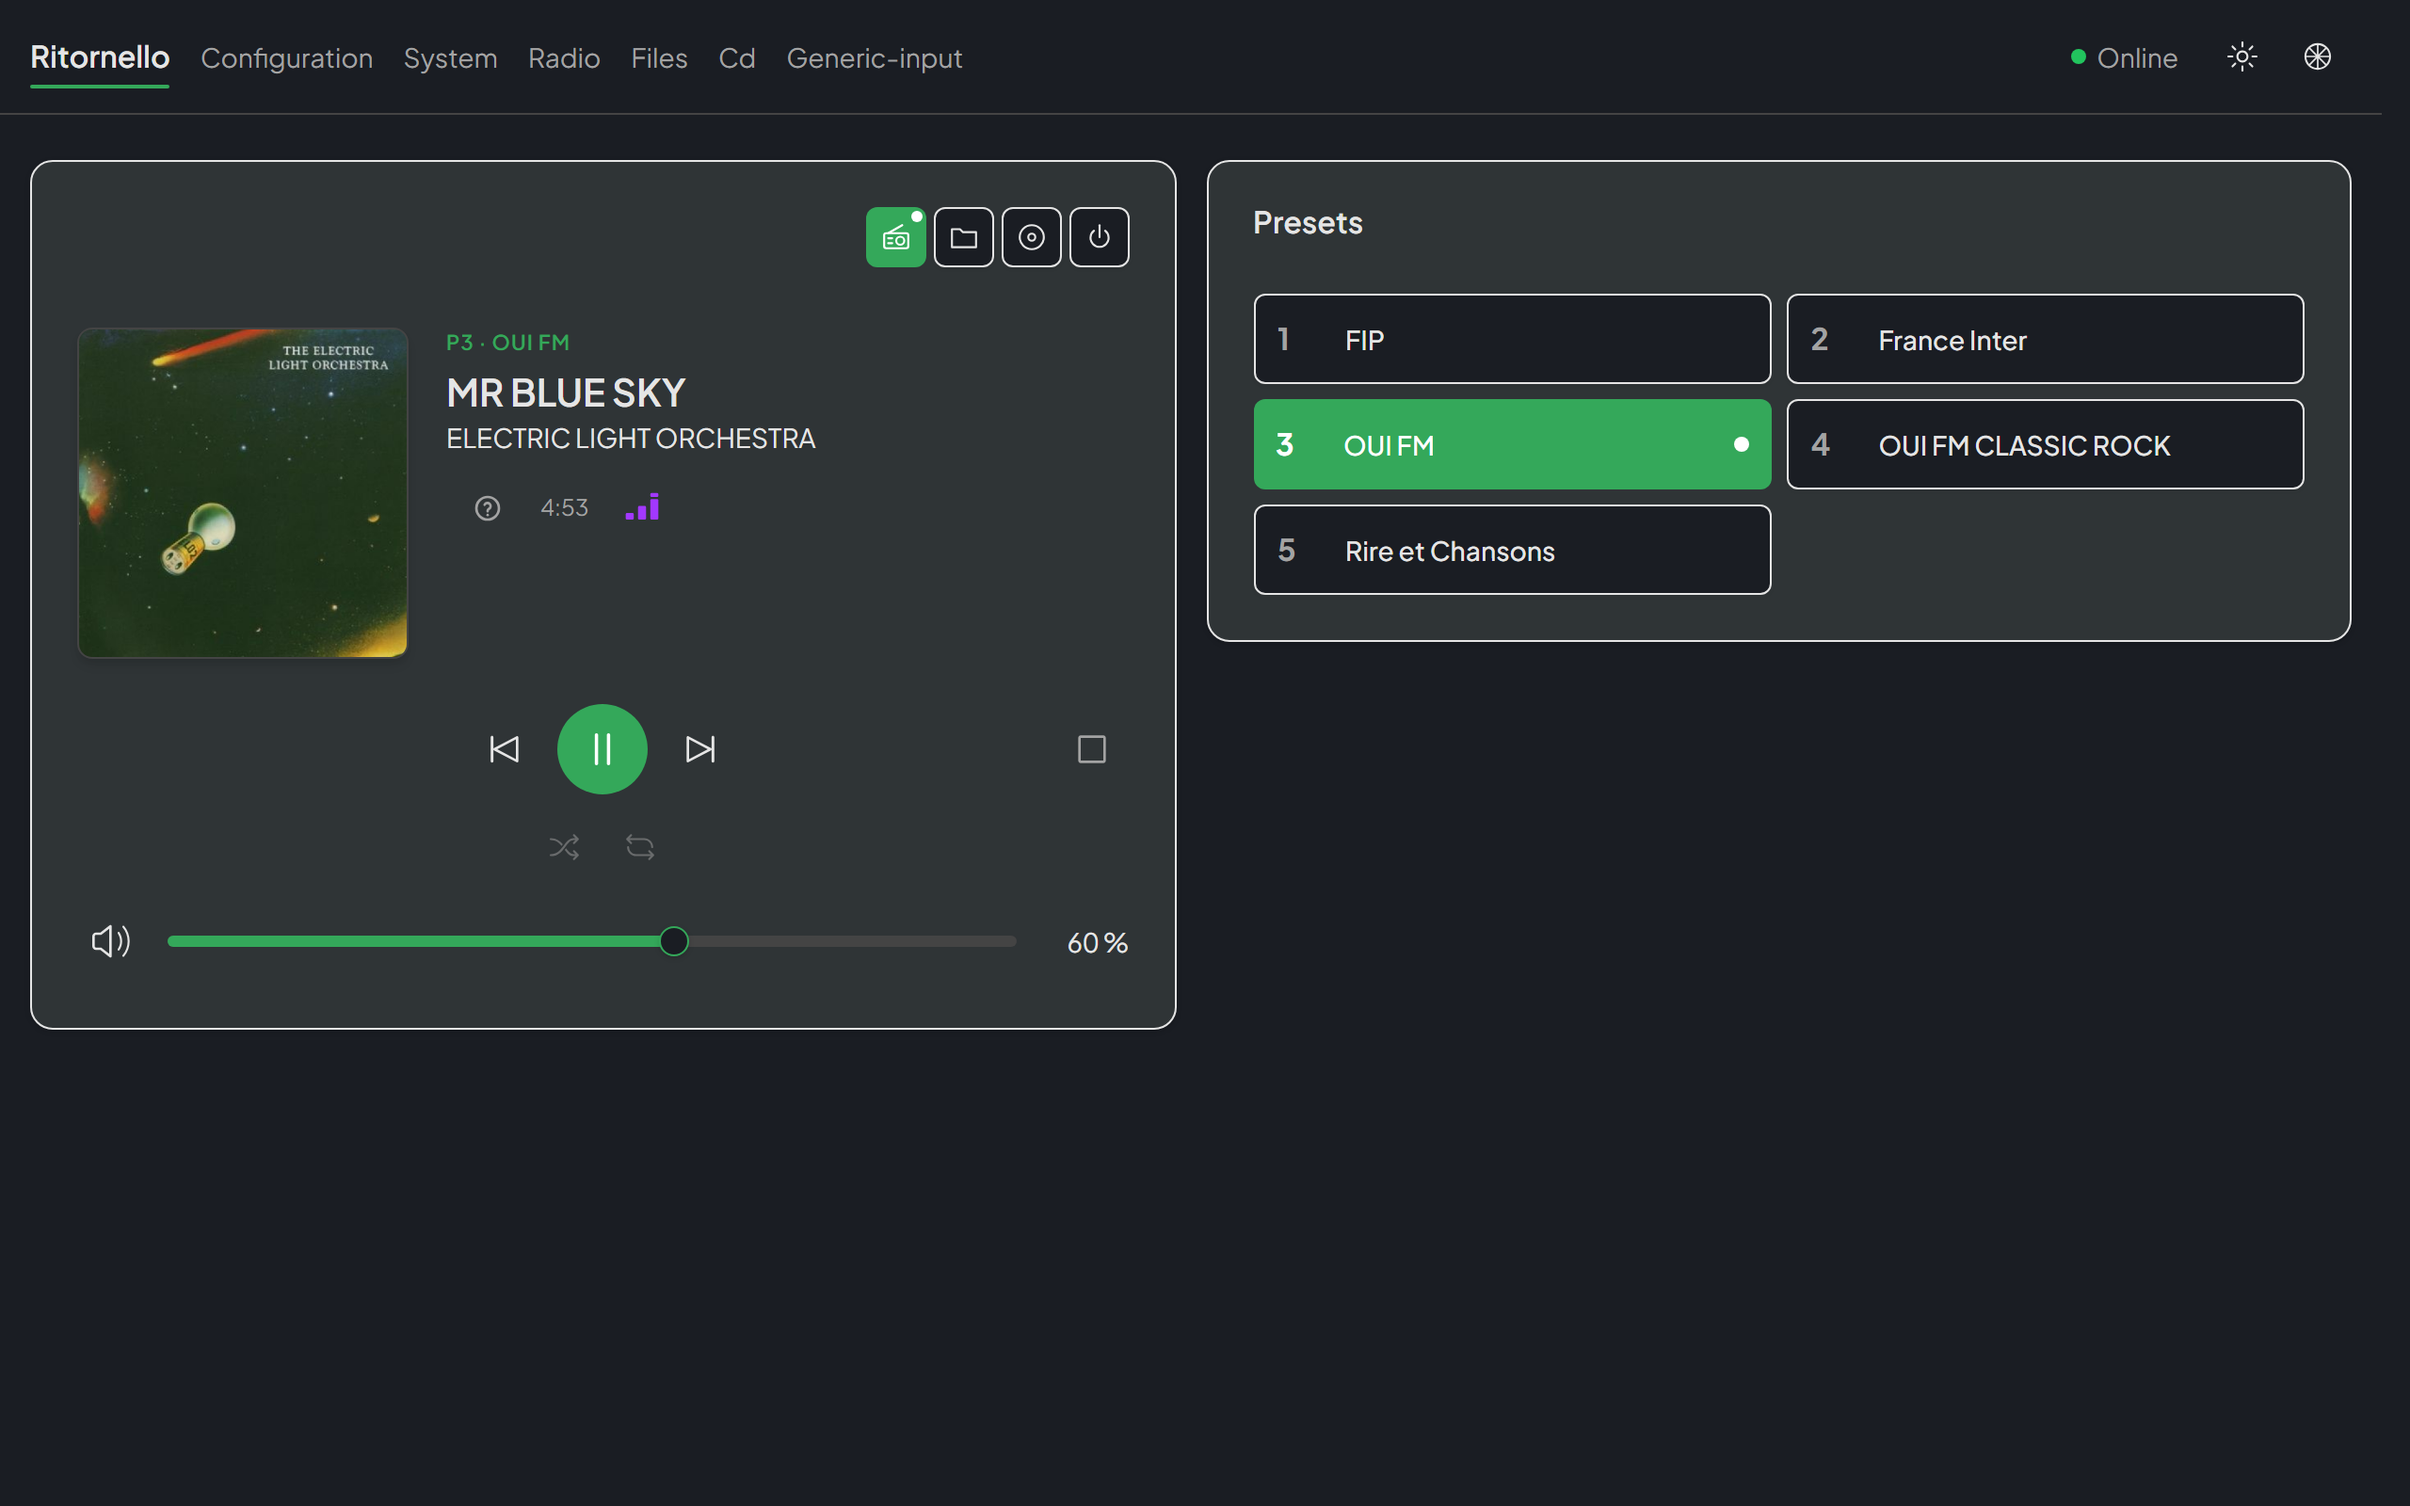
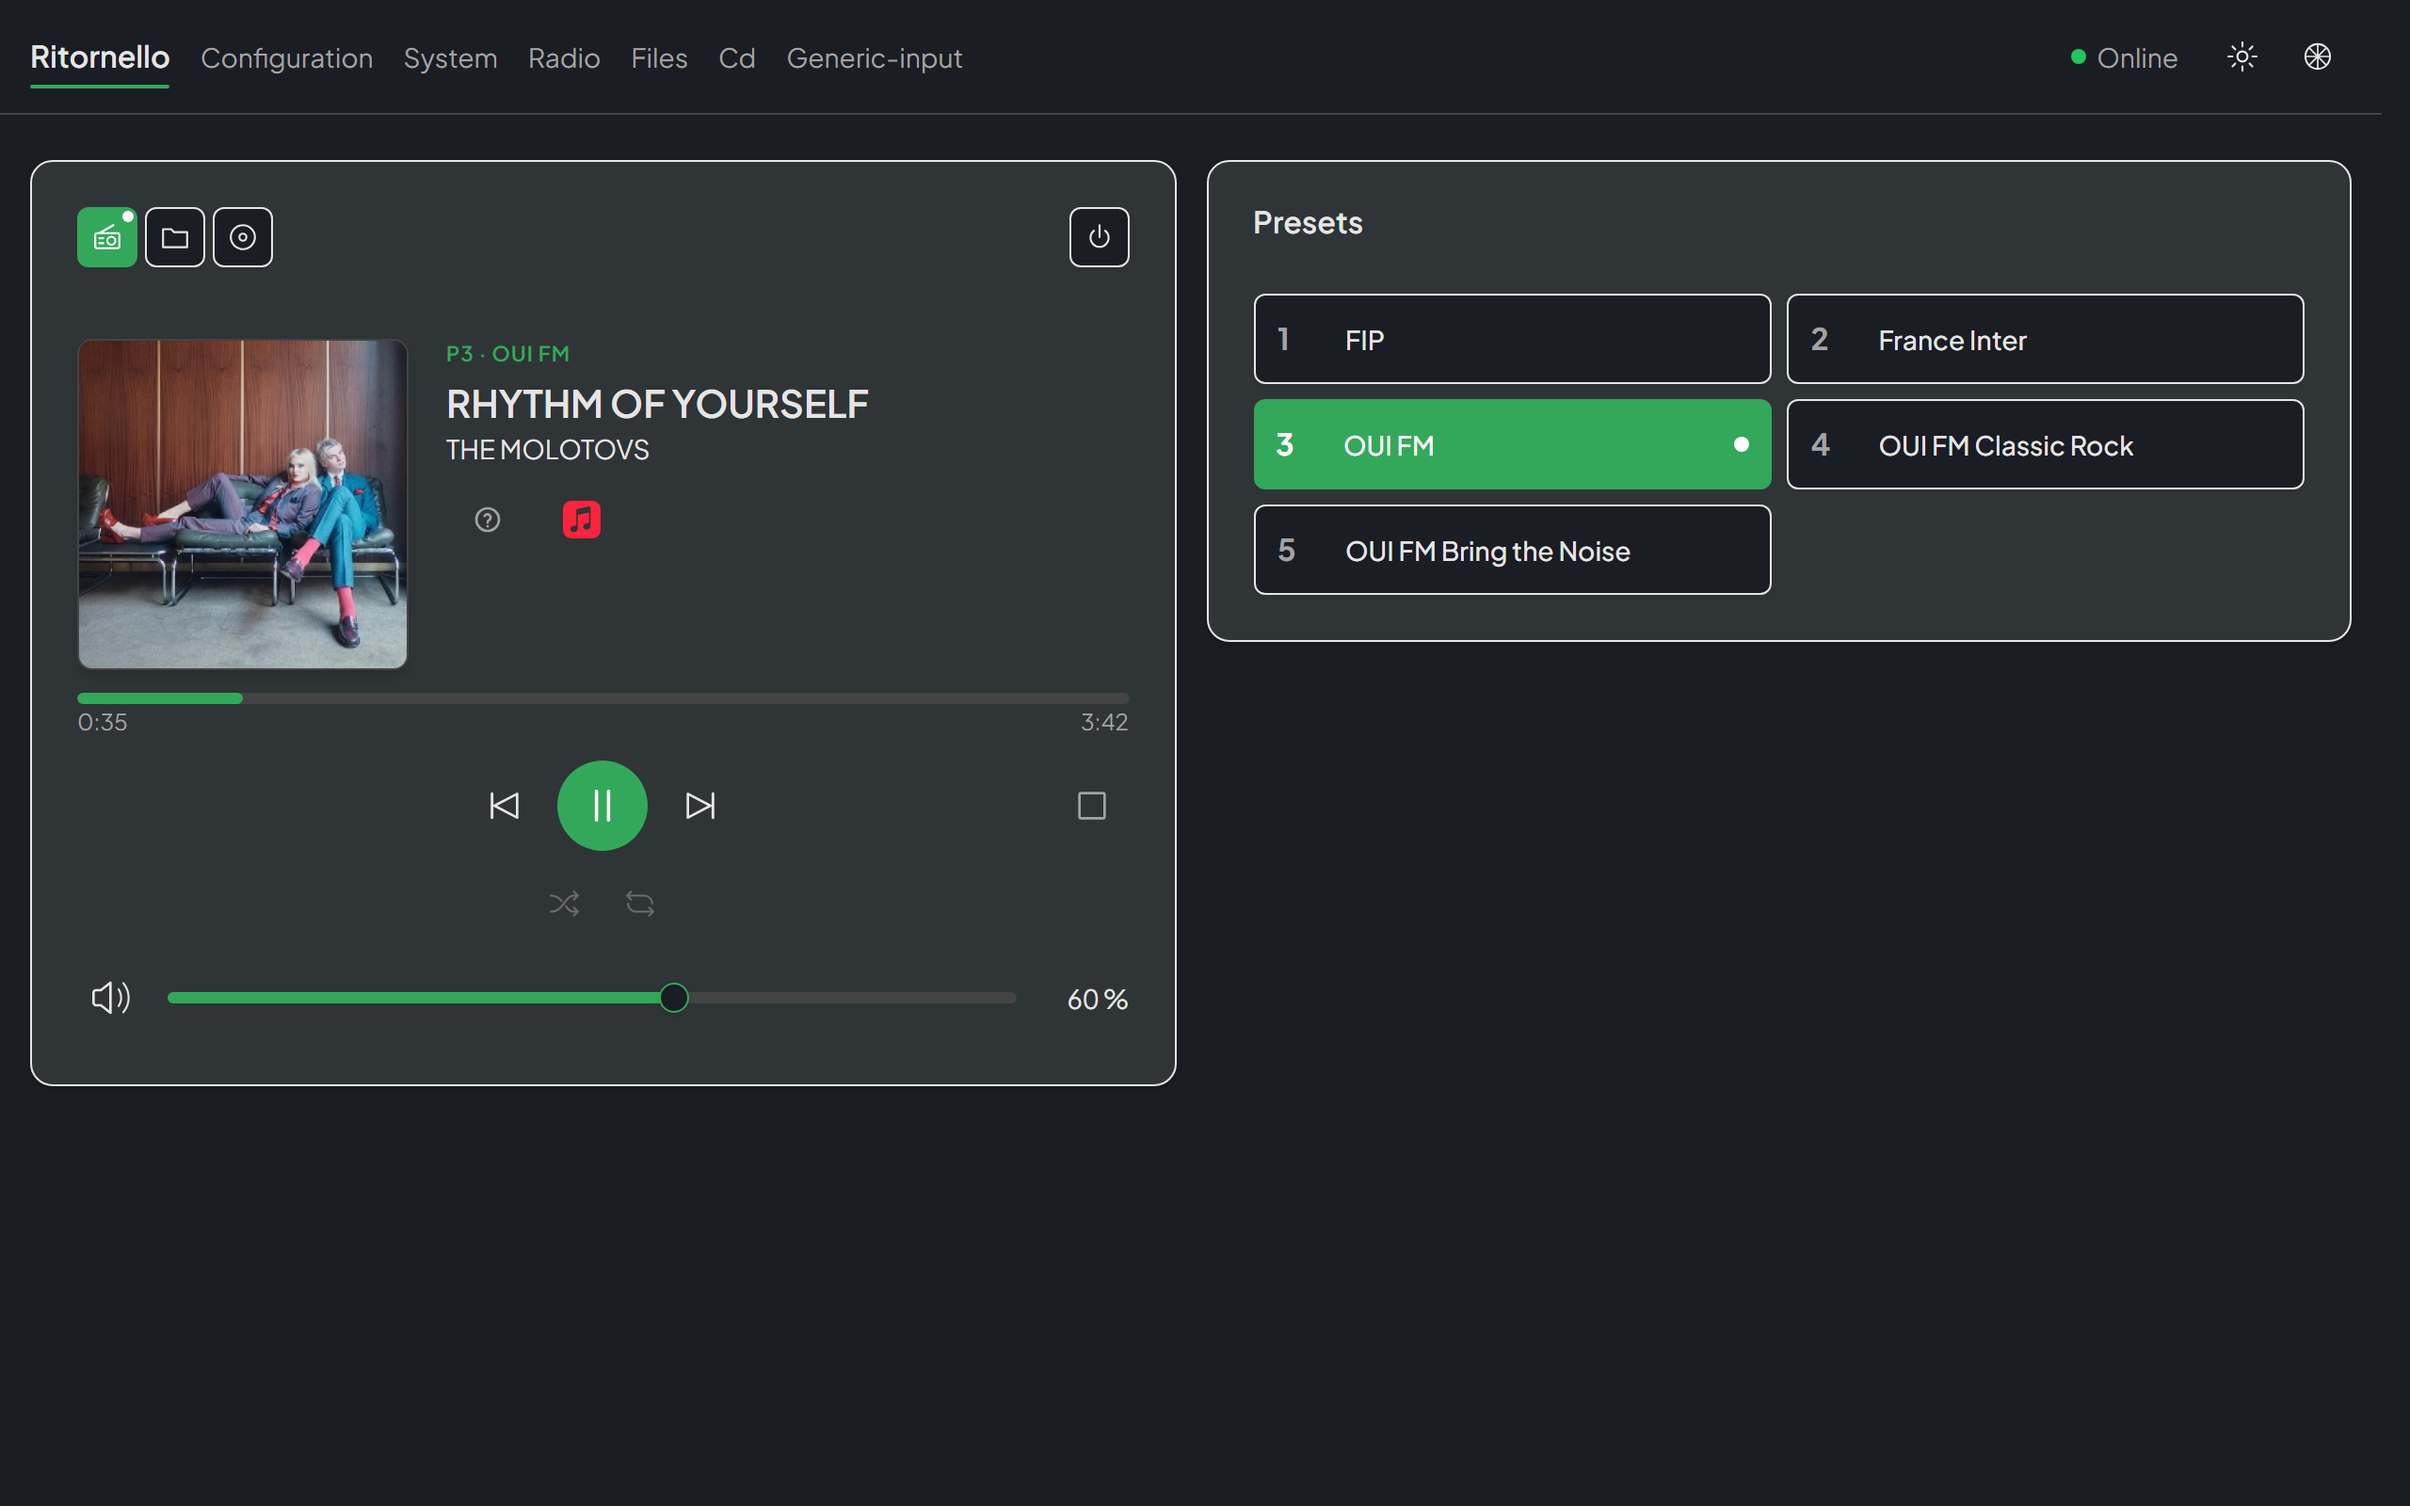
Source keys at the left of the player card header; system page tests on plain fake timers (#95)
* test(web): the system page tests advance time only when told to

The last file still running fake timers with shouldAdvanceTime, the setting
behind the flaky ConfigView failure fixed in #94. With time moving only when
the test says, the period-change test now checks the real 5:1 spacing
instead of "more than 3".

* feat(web): the source keys open the player card header, standby alone in its corner

Side by side in the corner, the last source key sat right against standby,
one slip from putting the device to sleep. The keys now start the header at
its left edge, followed by the standby badge; the corner keeps standby, and
the cycle key beside it when the icon keys do not fit. The widths headerMode
counts are unchanged. Home screenshots retaken.

diff --git a/web/app/src/components/PlayerCard.vue b/web/app/src/components/PlayerCard.vue
@@ -234,36 +234,45 @@ const emit = defineEmits<{ seek: [seconds: number] }>()
   <!-- No visible title: the header is the room the source keys need, and the
        card says what it is to assistive technology through its name. -->
   <Card data-player role="region" :aria-label="t('player_title')">
-    <!-- `gap-x-0` and the title's `mr-1`: the gap before the corner's keys
-         only exists when the title does. The kit's grid would keep its
-         column gap beside an empty title, a width `headerMode` does not
-         count (see its `GAP`). -->
-    <CardHeader ref="header" class="gap-x-0 pb-2" data-player-header>
-      <CardTitle v-if="showSource || state?.standby" class="mr-1 flex items-center gap-2 text-base">
-        <!-- The source as a pill: a kit badge, `data-source` kept for the
-             journeys. The dot says "it's playing" (playback), where the old
-             text line said nothing.
+    <!-- `gap-x-0` and the start column's `mr-1`: the gap before the corner's
+         keys only exists when that column does. The kit's grid would keep
+         its column gap beside an empty title, a width `headerMode` does not
+         count (see its `GAP`).
 
-             `bg-current` and not `bg-primary`: the dot inherits the badge's
-             text color, so it contrasts **by construction** with its own
-             background, in every theme. With `bg-primary` it painted the
-             theme's green over the secondary badge's blue — two saturated,
-             close hues, reported unreadable by the owner. It is also the
-             idiom already chosen for the active preset pill (see
-             `PresetGrid.vue`). The color carries no meaning here anyway: it
-             is the **presence** of the dot that says it is playing, it is
-             only rendered at that moment. -->
-        <Badge v-if="showSource" variant="secondary" class="gap-1.5 font-normal">
-          <span
-            v-if="state?.playback === 'playing'"
-            class="size-1.5 rounded-full bg-current"
-            aria-hidden="true"
-            data-now-playing-line
-          />
-          <span data-source>{{ state ? state.source || t('no_source') : '' }}</span>
-        </Badge>
-        <Badge v-if="state?.standby" variant="secondary" data-standby>{{ t('standby') }}</Badge>
-      </CardTitle>
+         The `sources` slot opens the start column, so the source keys sit
+         at the left edge, away from standby in the far corner: side by side
+         in the corner, a key for a source and the key putting the device to
+         sleep were one slip apart, reported by the owner. `gap-1` between
+         them and the standby badge is the `GAP` `headerMode` counts. -->
+    <CardHeader ref="header" class="gap-x-0 pb-2" data-player-header>
+      <div v-if="showSource || state?.standby || $slots.sources" class="mr-1 flex items-center gap-1" data-player-header-start>
+        <slot name="sources" />
+        <CardTitle v-if="showSource || state?.standby" class="flex items-center gap-2 text-base">
+          <!-- The source as a pill: a kit badge, `data-source` kept for the
+               journeys. The dot says "it's playing" (playback), where the old
+               text line said nothing.
+
+               `bg-current` and not `bg-primary`: the dot inherits the badge's
+               text color, so it contrasts **by construction** with its own
+               background, in every theme. With `bg-primary` it painted the
+               theme's green over the secondary badge's blue — two saturated,
+               close hues, reported unreadable by the owner. It is also the
+               idiom already chosen for the active preset pill (see
+               `PresetGrid.vue`). The color carries no meaning here anyway: it
+               is the **presence** of the dot that says it is playing, it is
+               only rendered at that moment. -->
+          <Badge v-if="showSource" variant="secondary" class="gap-1.5 font-normal">
+            <span
+              v-if="state?.playback === 'playing'"
+              class="size-1.5 rounded-full bg-current"
+              aria-hidden="true"
+              data-now-playing-line
+            />
+            <span data-source>{{ state ? state.source || t('no_source') : '' }}</span>
+          </Badge>
+          <Badge v-if="state?.standby" variant="secondary" data-standby>{{ t('standby') }}</Badge>
+        </CardTitle>
+      </div>
       <CardAction v-if="$slots.actions">
         <slot name="actions" />
       </CardAction>

diff --git a/web/app/src/views/HomeView.vue b/web/app/src/views/HomeView.vue
@@ -103,23 +103,24 @@ onMounted(async () => {
       :seek-step="settings.seek_step_s"
       @seek="(s: number) => send({ cmd: 'SeekTo', arg: s })"
     >
-      <!-- The two commands bearing on the whole device, in the corner of the
-           card: the source, then standby in the far corner. The source is
-           one key per source when they fit, the cycle key otherwise, nothing
-           when there is only one. -->
+      <!-- The two commands bearing on the whole device: the source, and
+           standby in the far corner. The source is one key per source when
+           they fit, at the header's left edge, clear of standby; the cycle
+           key otherwise, beside standby; nothing when there is only one. -->
+      <template v-if="mode === 'icons'" #sources>
+        <SourceKeys
+          :sources="sources"
+          :icons="icons"
+          :active="state?.source ?? null"
+          :playing="state?.playback === 'playing'"
+          :disabled="unavailable('SelectSource', state)"
+          @choose="(name: string) => send({ cmd: 'SelectSource', arg: name })"
+        />
+      </template>
       <template #actions>
         <div class="flex items-center gap-1">
-          <SourceKeys
-            v-if="mode === 'icons'"
-            :sources="sources"
-            :icons="icons"
-            :active="state?.source ?? null"
-            :playing="state?.playback === 'playing'"
-            :disabled="unavailable('SelectSource', state)"
-            @choose="(name: string) => send({ cmd: 'SelectSource', arg: name })"
-          />
           <Button
-            v-else-if="mode === 'cycle'"
+            v-if="mode === 'cycle'"
             variant="outline"
             size="sm"
             data-remote-source

diff --git a/web/app/src/views/HomeView.test.ts b/web/app/src/views/HomeView.test.ts
@@ -688,6 +688,26 @@ describe('HomeView — the source keys in the Player card header', () => {
     expect(w.get('[data-player-header]').text()).not.toContain(name)
   })
 
+  it('wide: the keys open the header at its left edge, standby alone in the far corner', async () => {
+    // **The owner's request**: in the corner, the last source key sat right
+    // against standby, one slip from putting the device to sleep.
+    const { w } = await mountWith(THREE, { source: 'cd', standby: true })
+    const start = w.get('[data-player-header-start]')
+    expect(start.element.firstElementChild?.matches('[data-source-keys]')).toBe(true)
+    // The standby badge follows the keys, in the same column.
+    expect(start.find('[data-standby]').exists()).toBe(true)
+    const corner = w.get('[data-slot="card-action"]')
+    expect(corner.find('[data-source-keys]').exists()).toBe(false)
+    expect(corner.find('[data-remote-power]').exists()).toBe(true)
+  })
+
+  it('narrow: the cycle key stays in the corner, beside standby', async () => {
+    const { w } = await mountWith(THREE, { source: 'cd' }, NARROW)
+    const corner = w.get('[data-slot="card-action"]')
+    expect(corner.find('[data-remote-source]').exists()).toBe(true)
+    expect(w.find('[data-source-keys]').exists()).toBe(false)
+  })
+
   it('wide: a key posts SelectSource with the name, not a notch of the cycle', async () => {
     const { w, posts } = await mountWith(THREE, { source: 'radio' })
     await w.get('[data-source-key="files"]').trigger('click')

diff --git a/web/app/src/views/SystemView.test.ts b/web/app/src/views/SystemView.test.ts
@@ -150,7 +150,10 @@ function stub(
 
 describe('SystemView', () => {
   beforeEach(() => {
-    vi.useFakeTimers({ shouldAdvanceTime: true })
+    // Plain fake timers: under `shouldAdvanceTime` simulated time also follows
+    // the wall clock, so what a test measures would depend on how fast the
+    // machine runs it (see the same change in `ConfigView.test.ts`).
+    vi.useFakeTimers()
     // The metrics state lives at module level: without a reset, a test
     // inherits the history, the period and the timer of the previous one.
     resetMetrics()
@@ -278,9 +281,10 @@ describe('SystemView', () => {
     const gaps = xs.slice(1).map((x, i) => x - (xs[i] ?? 0))
     const first = gaps[0] ?? 0
     const last = gaps.at(-1) ?? 0
-    // Theoretical ratio 5 (5 s against 1 s); we require 3 to allow for the
-    // real time that also elapses under `shouldAdvanceTime`.
-    expect(first).toBeGreaterThan(last * 3)
+    // 5 s against 1 s: with time moving only when the test says, the ratio is
+    // 5 up to the path's two-decimal rounding, where it used to be "more
+    // than 3" to absorb the wall clock. Rank-based placement would give 1.
+    expect(first / last).toBeCloseTo(5, 1)
     w.unmount()
   })
 
